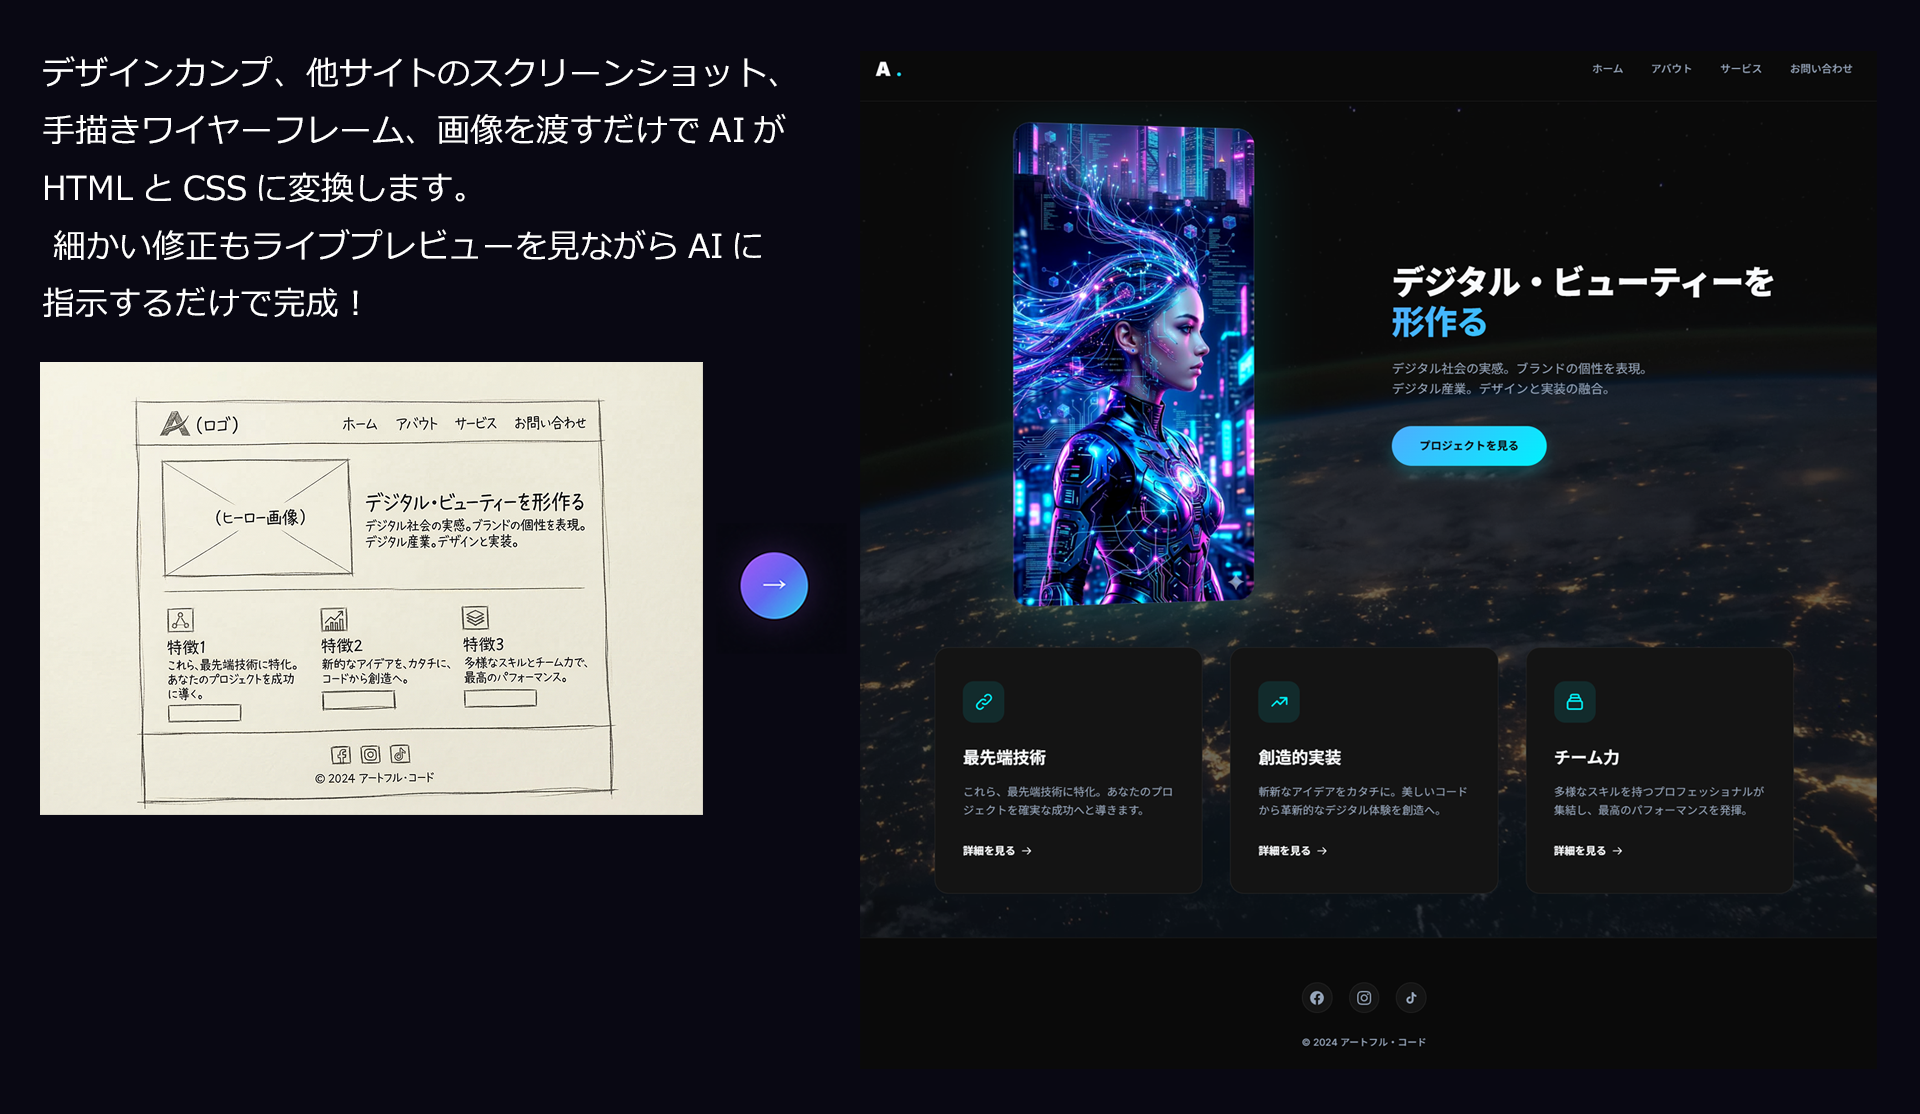
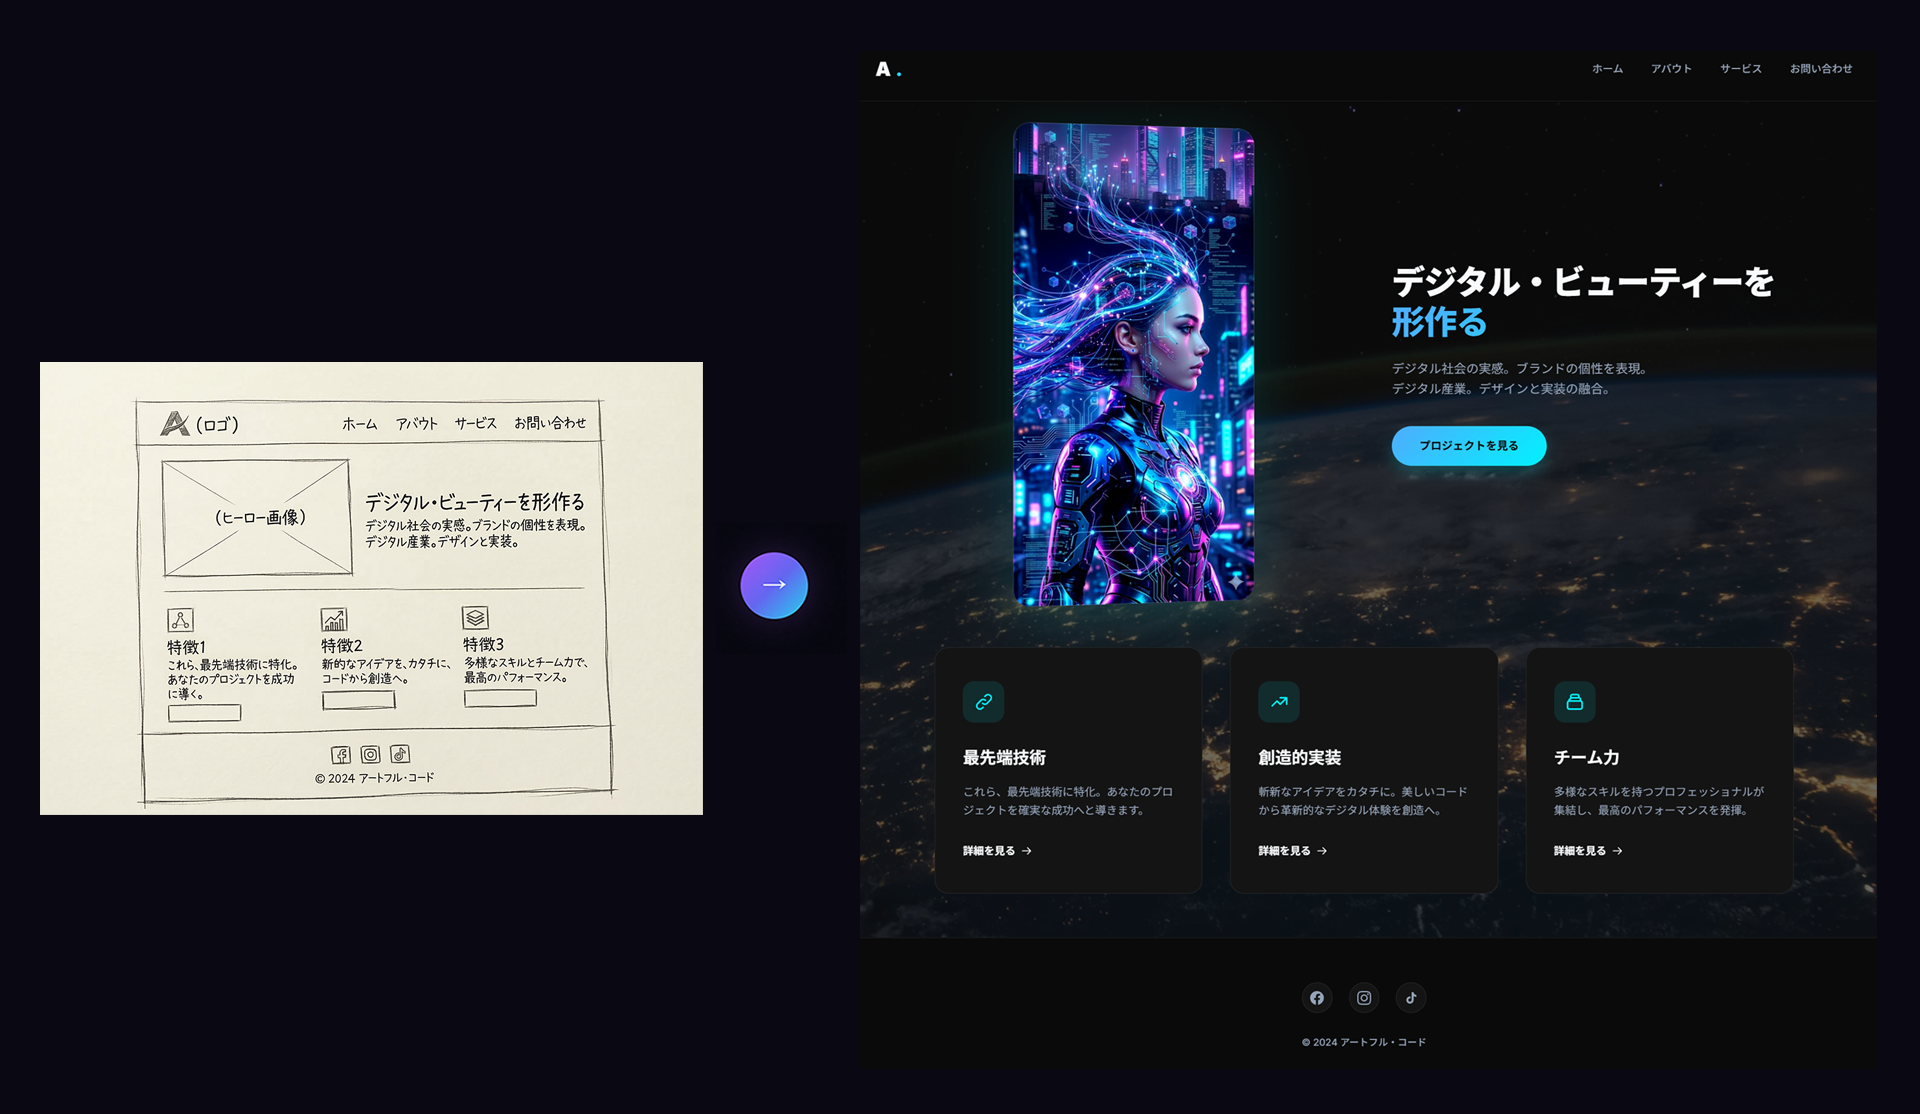
Fine-tune LP layout, screenshots and caption styles

Changed region(s): [[0.0312, 0.0305, 0.4062, 0.1221], [0.0312, 0.2136, 0.375, 0.3052], [0.0312, 0.1526, 0.25, 0.1831]]

diff --git a/index.html b/index.html
@@ -205,7 +205,7 @@ footer{border-top:1px solid var(--border);padding:48px 24px;text-align:center}
 .ss-showcase{max-width:1100px;margin:0 auto;padding:0 24px}
 .ss-showcase img{width:100%;border-radius:var(--radius);border:1px solid var(--border);box-shadow:0 20px 60px rgba(0,0,0,.5),0 0 0 1px rgba(255,255,255,.05),0 0 80px rgba(168,85,247,.08);transition:transform .3s ease,box-shadow .3s ease}
 .ss-showcase img:hover{transform:translateY(-4px);box-shadow:0 28px 80px rgba(0,0,0,.6),0 0 0 1px rgba(168,85,247,.2),0 0 100px rgba(168,85,247,.12)}
-.ss-caption{text-align:center;margin-top:16px;font-size:.88rem;color:var(--text-muted);line-height:1.6}
+.ss-caption{text-align:center;margin-top:16px;font-size:1rem;color:rgba(240,240,245,.9);line-height:1.6}
 
 /* ===== Animations ===== */
 .fade-in{opacity:0;transform:translateY(24px);transition:opacity .7s ease,transform .7s ease}
@@ -395,15 +395,12 @@ footer{border-top:1px solid var(--border);padding:48px 24px;text-align:center}
     </p>
   </div>
 
-  <div class="img2html fade-in" style="display:block;">
-    <a href="beauty3.html" class="img-link">
-      <img src="use_ai.png" alt="Image to HTML" style="width:100%; border-radius:var(--radius); border:1px solid var(--border); display:block;">
-    </a>
-  </div>
 
   <!-- Image-to-HTML screenshot -->
   <div class="ss-showcase fade-in" style="margin-top:48px">
-    <img src="ss3.png" alt="Convert wireframe sketch to HTML with AI">
+    <a href="beauty3.html" class="img-link">
+      <img src="ss3.png" alt="Convert wireframe sketch to HTML with AI">
+    </a>
     <p class="ss-caption">
       <span class="ja">手描きワイヤーフレームやデザインカンプを画像で渡すだけ。AIがHTMLとCSSに変換し、細かい修正もライブプレビューを見ながらAIに指示するだけで完成。</span>
       <span class="en">Just drop a hand-drawn wireframe or design comp. AI converts it to HTML & CSS, and you can fine-tune by giving instructions while watching the live preview.</span>
